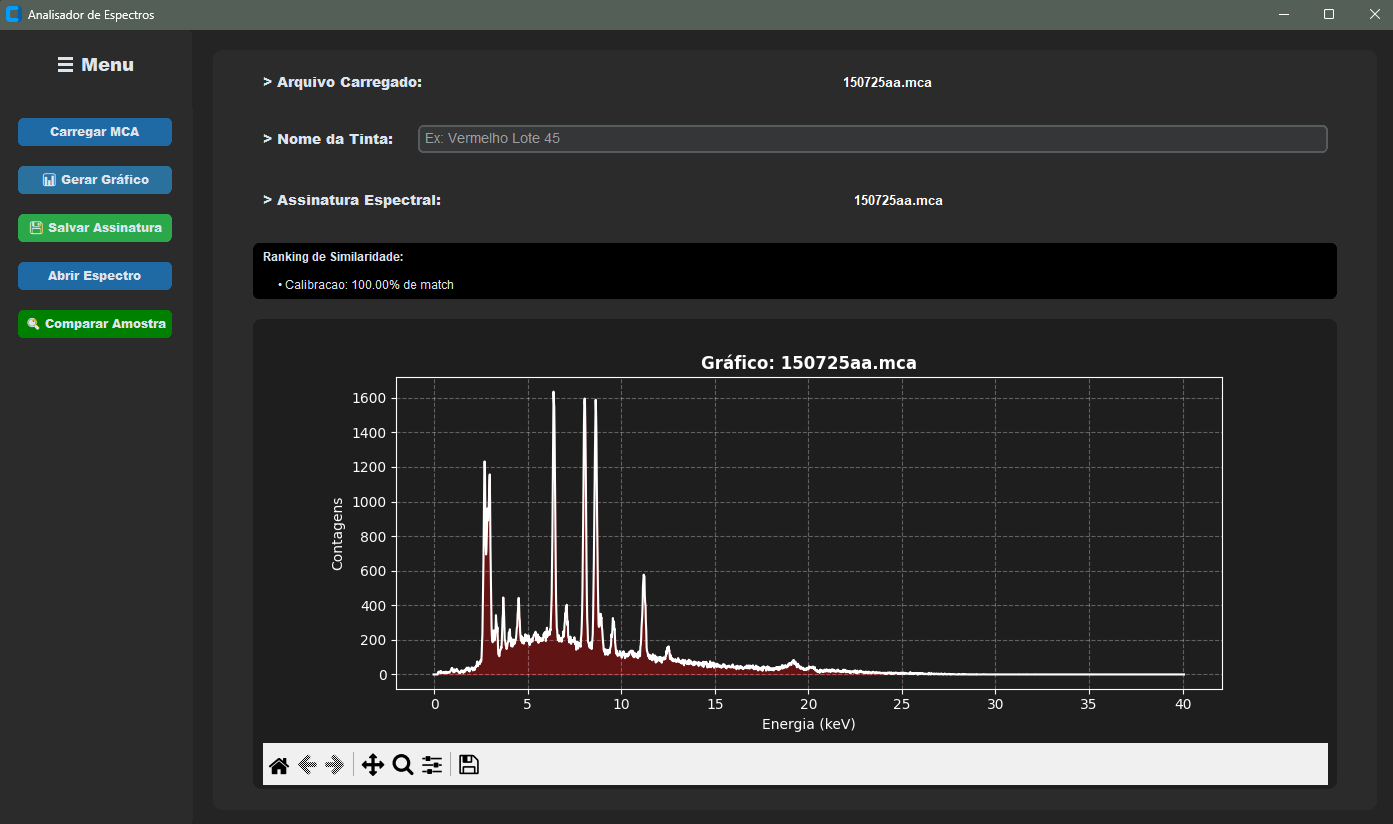
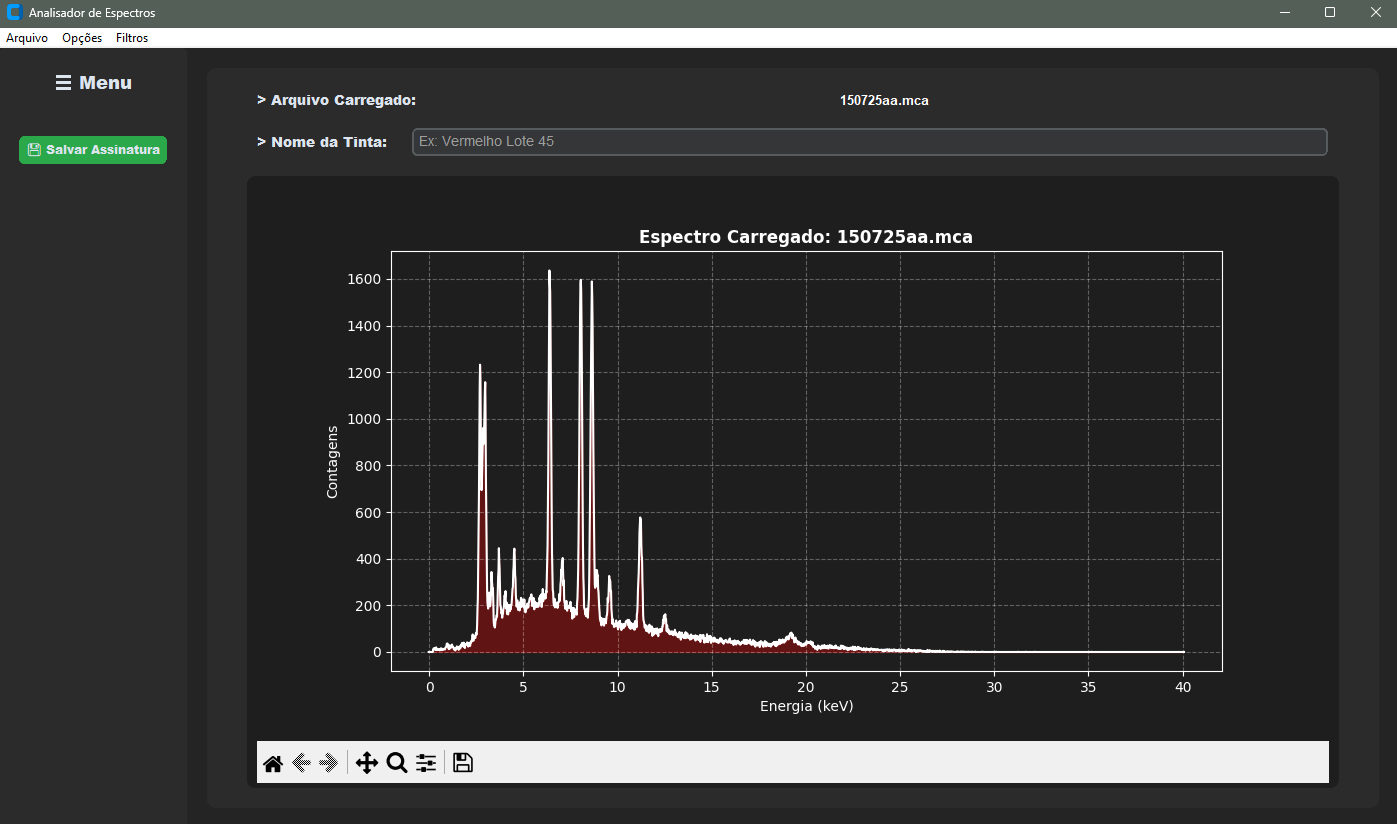
Requirements

diff --git a/src/views/databaseView.py b/src/views/databaseView.py
@@ -1,6 +1,5 @@
 # views/databaseView.py
 import customtkinter as ctk
-import os
 from tkinter import messagebox, ttk
 
 class DatabaseView(ctk.CTkFrame):

diff --git a/src/views/graficosView.py b/src/views/graficosView.py
@@ -1,7 +1,6 @@
 # views/graficosView.py
 import customtkinter as ctk
 import os
-import numpy as np
 
 class GraficosView(ctk.CTkFrame):
     def __init__(self, master, viewmodel, sidebar):

diff --git a/src/views/mainView.py b/src/views/mainView.py
@@ -9,7 +9,6 @@ from views.comparacaoView import ComparacaoView
 from models.graficosModel import gerar_figura_espectro
 from matplotlib.backends.backend_tkagg import FigureCanvasTkAgg
 import matplotlib.pyplot as plt
-import os
 
 class MainView(ctk.CTk):
     def __init__(self):